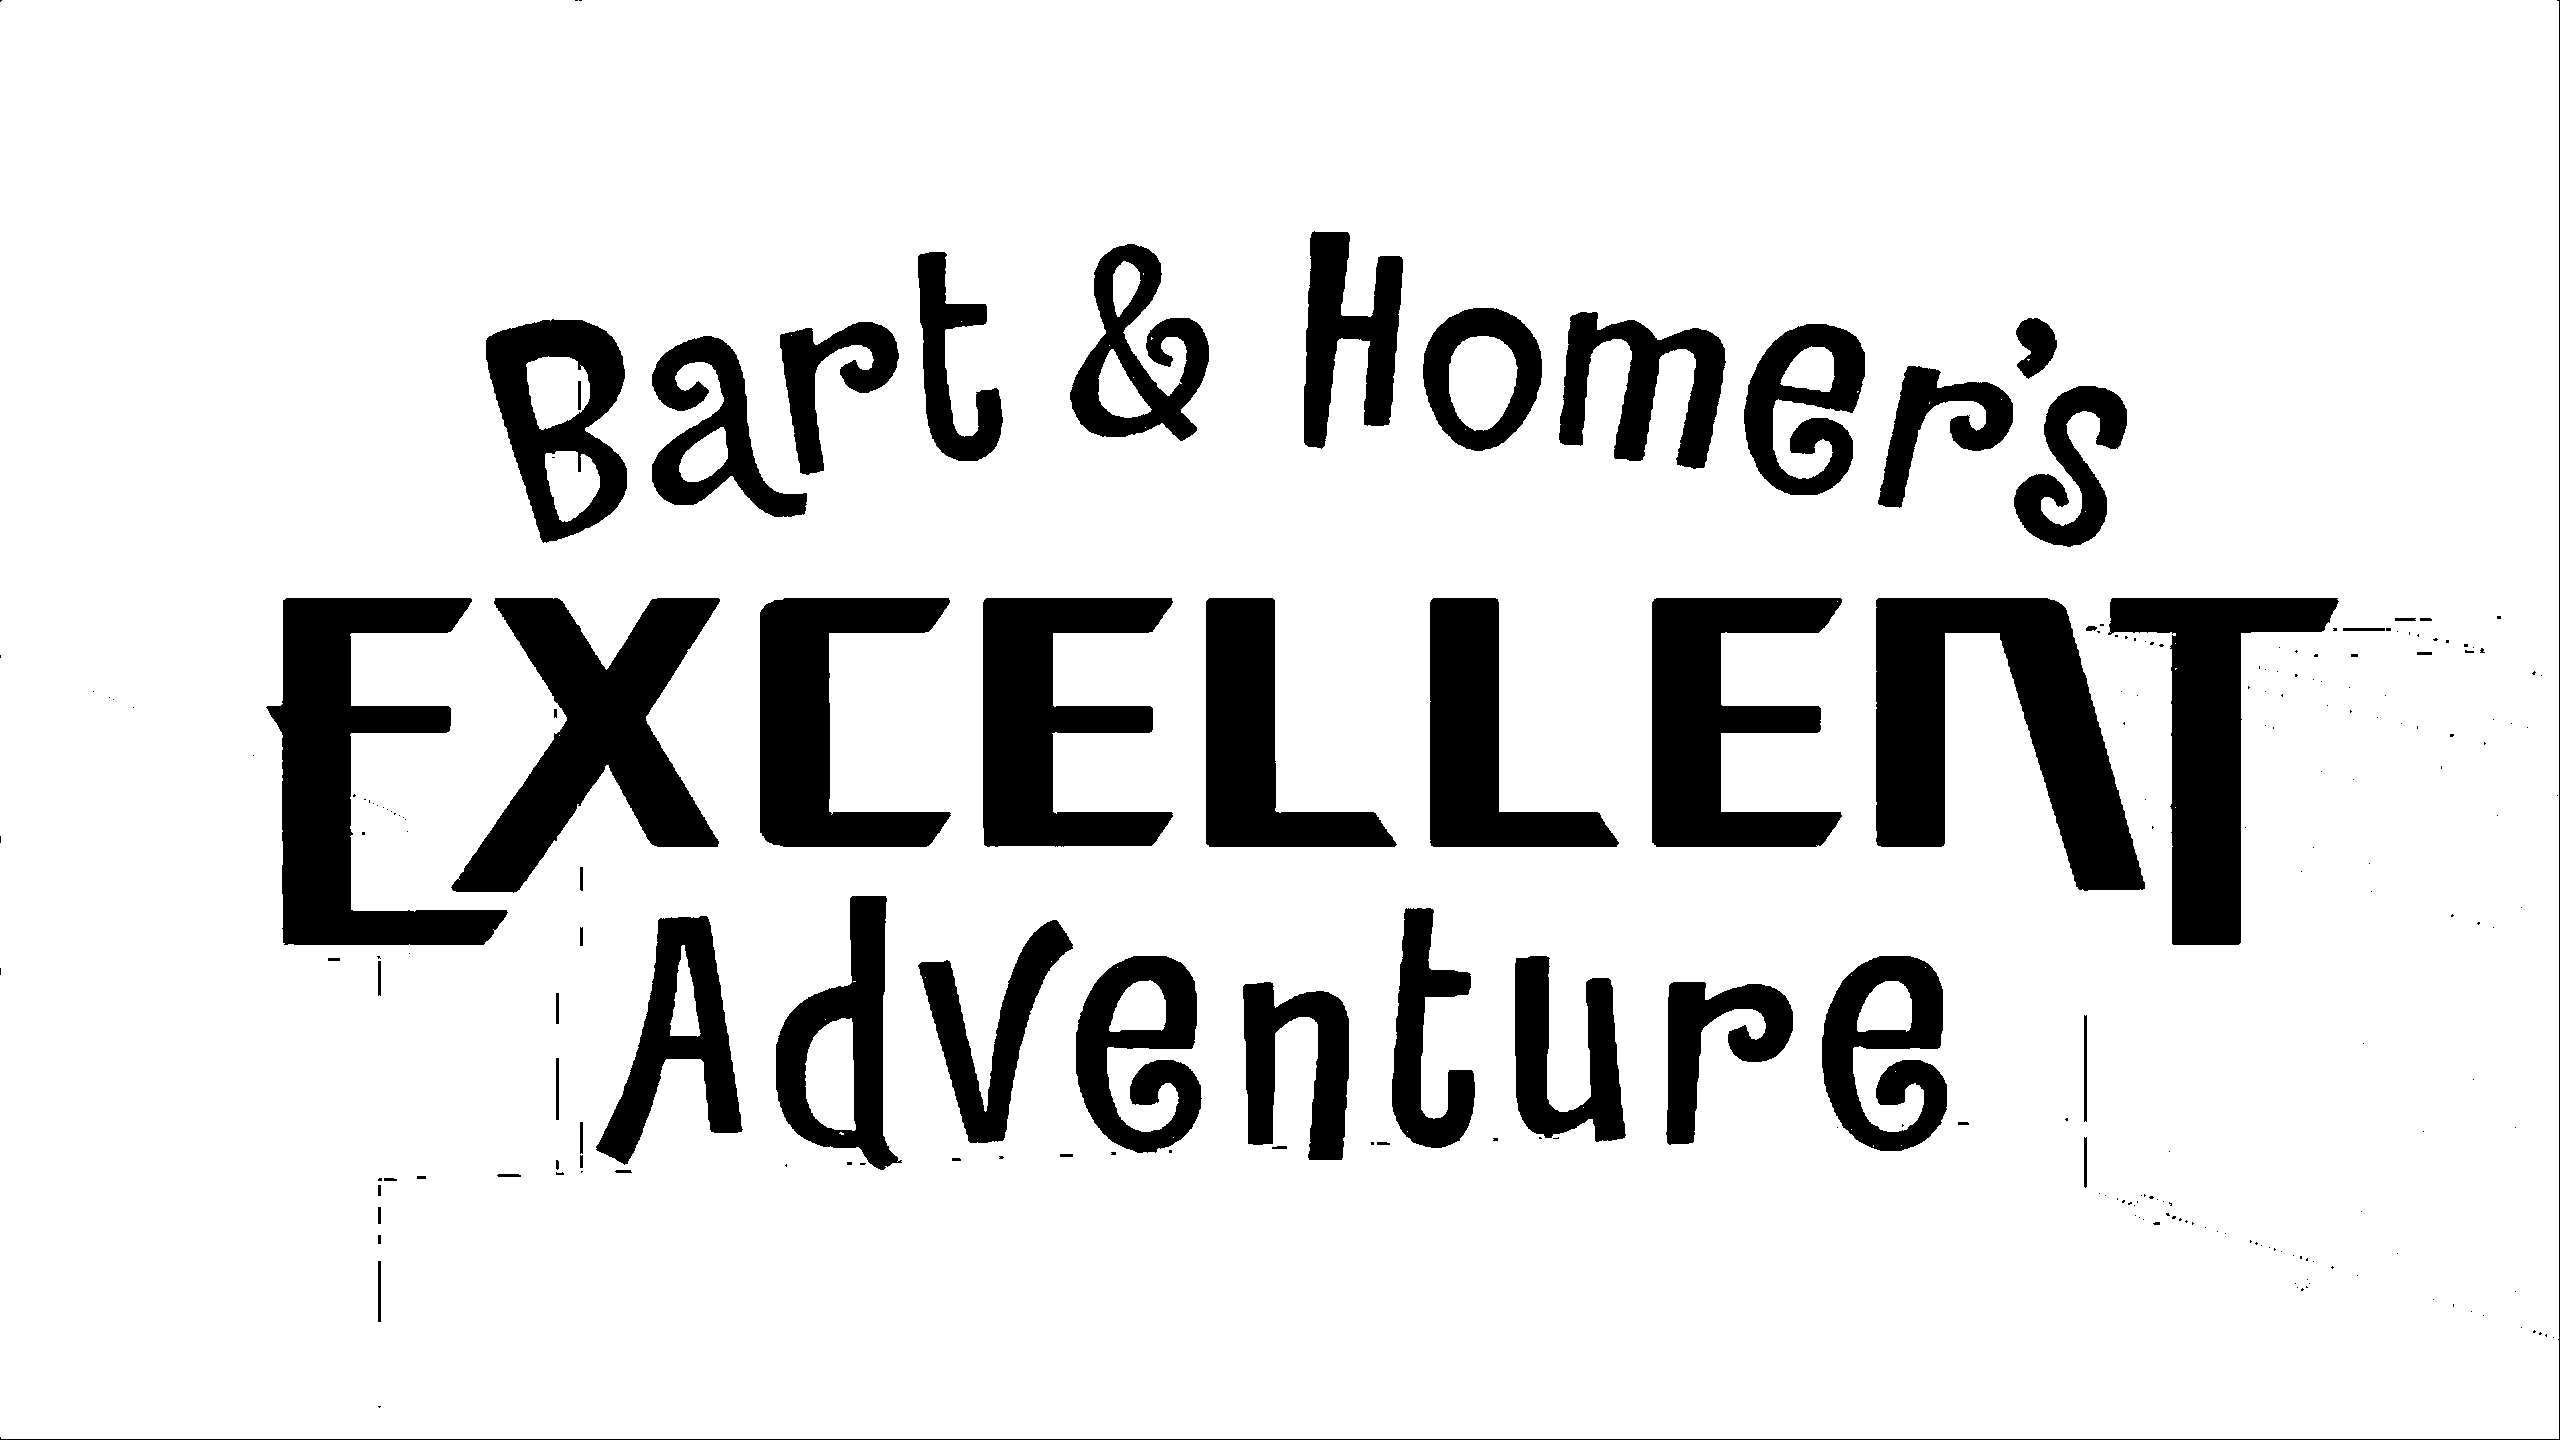
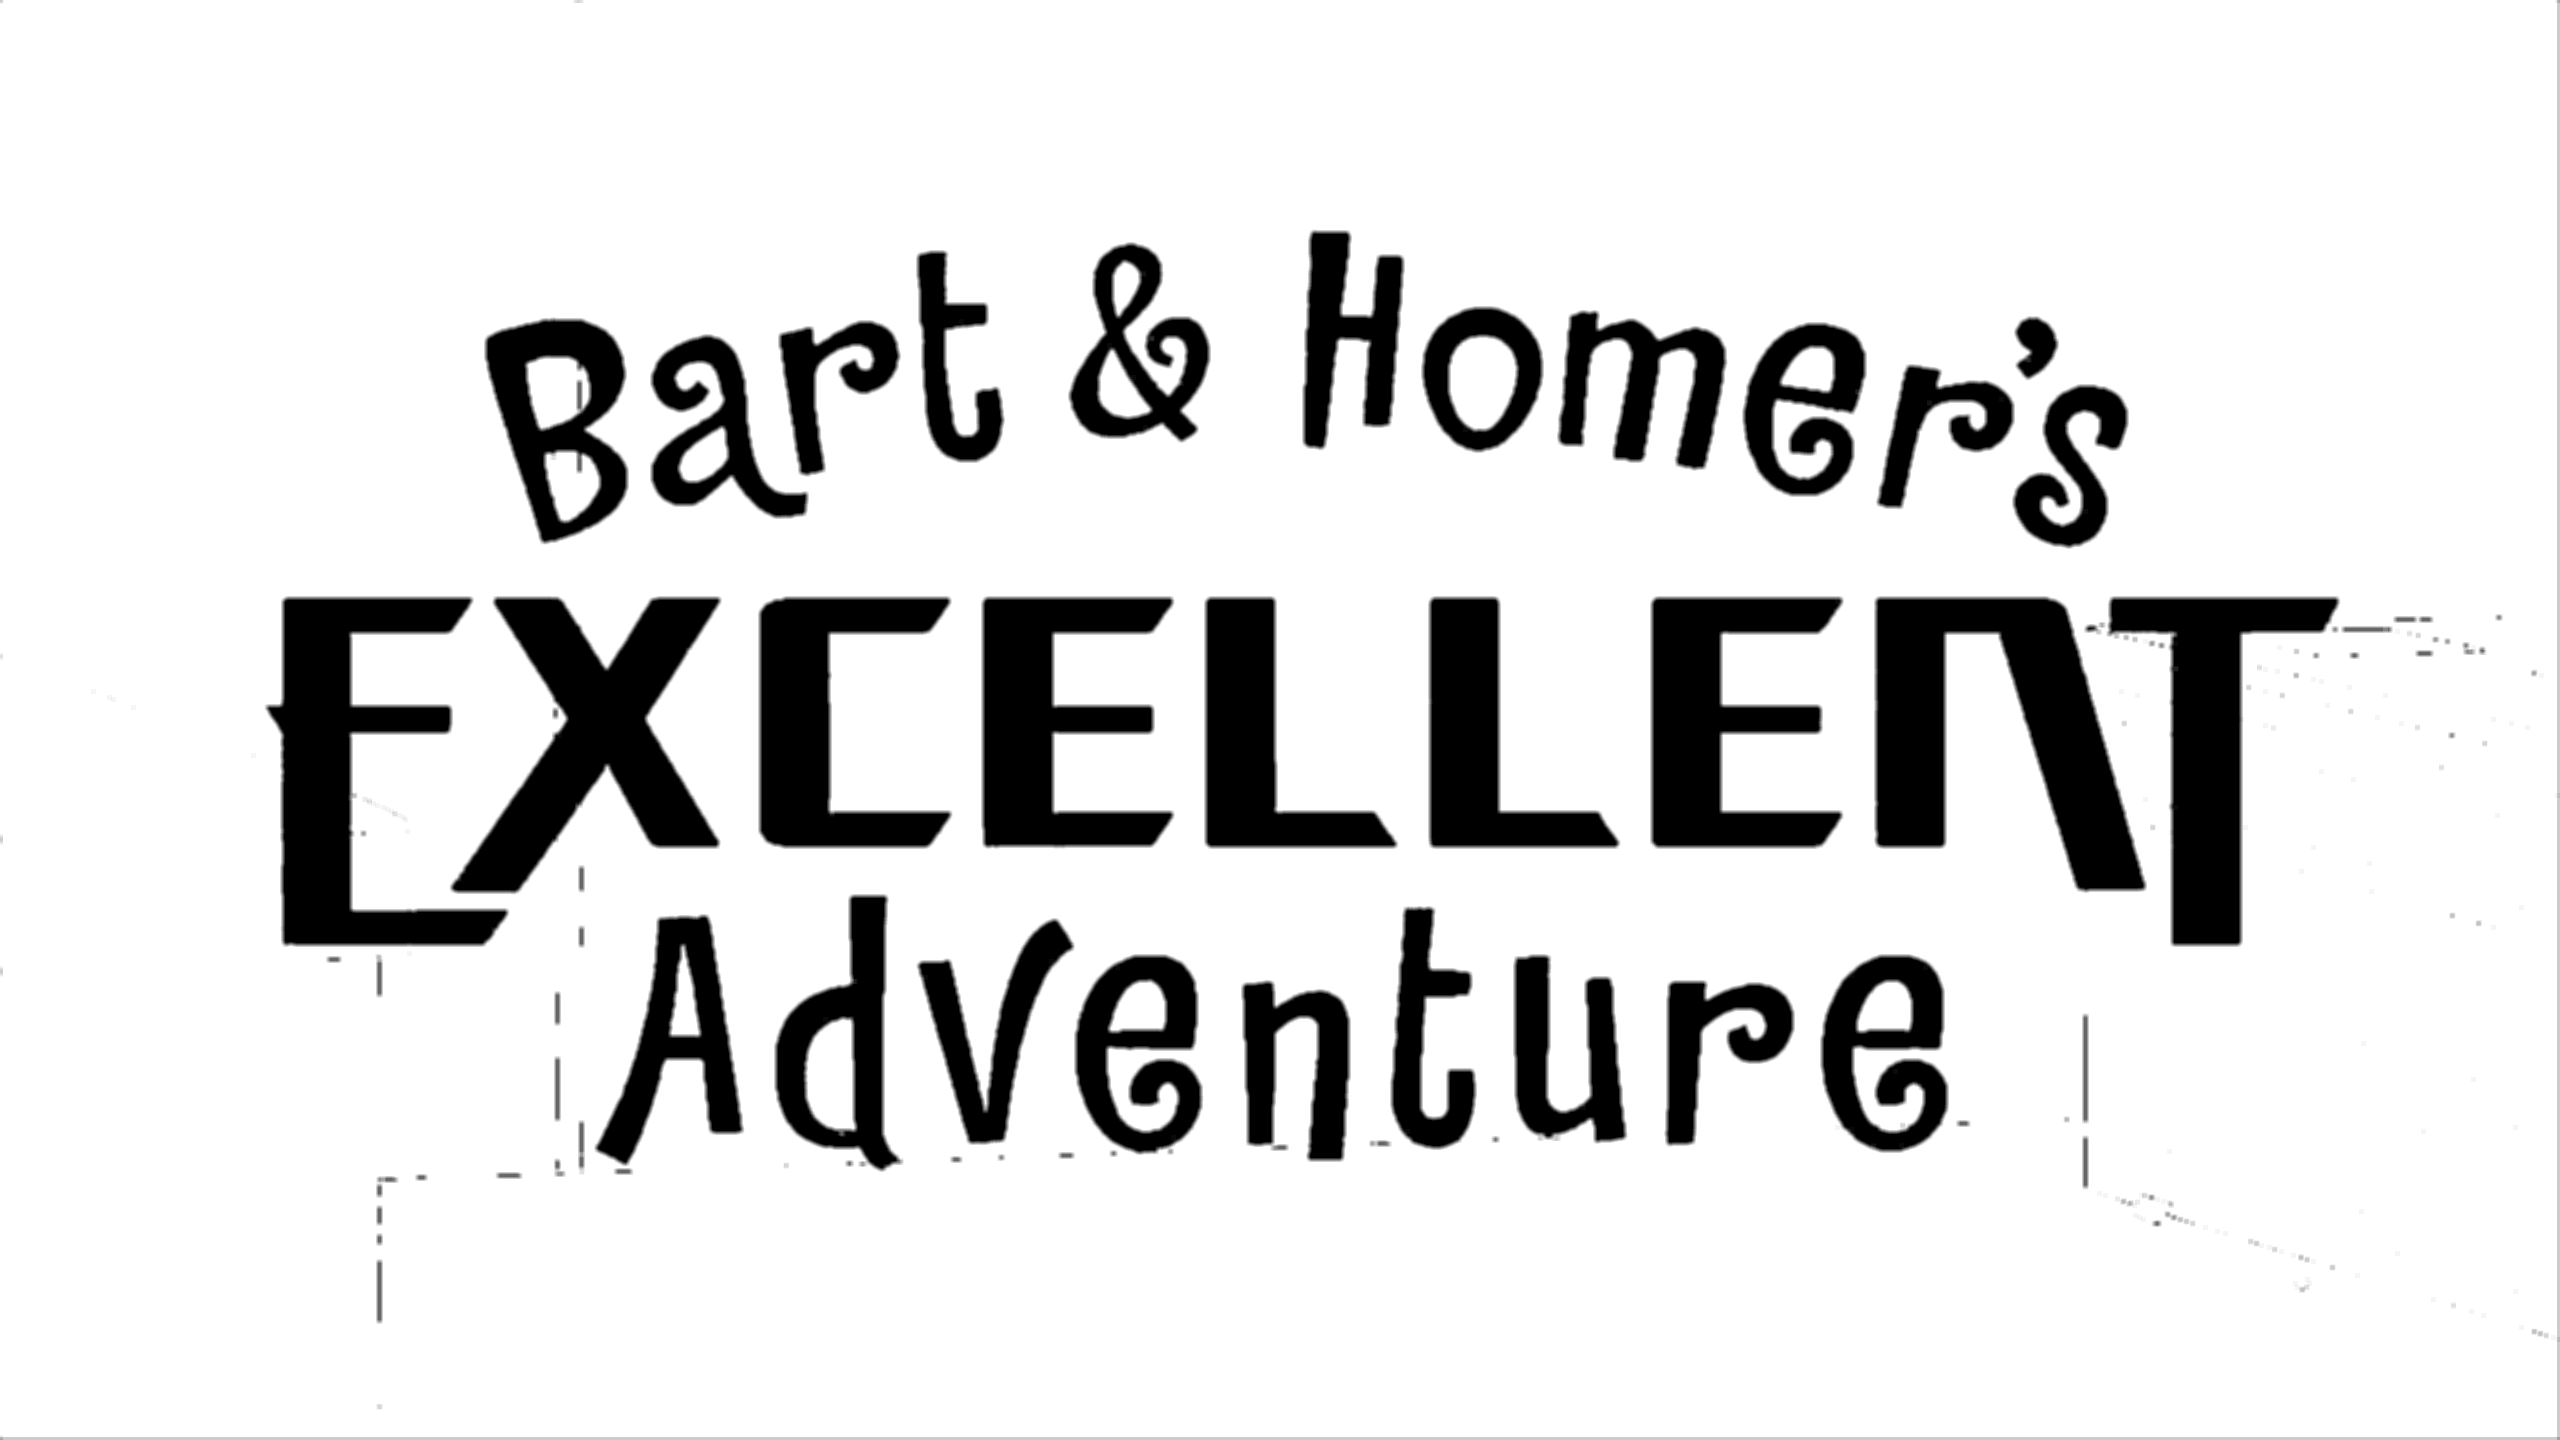
code changed

diff --git a/get_text_overlay.py b/get_text_overlay.py
@@ -21,7 +21,7 @@ def getTextOverlay(input_image):
     img2gray = cv2.cvtColor(image, cv2.COLOR_BGR2GRAY) 
     ret, mask = cv2.threshold(img2gray, 10,255, cv2.THRESH_BINARY)
     figure_size = 5
-    output = cv2.blur(th3,(figure_size, figure_size))
+    output = cv2.blur(mask,(figure_size, figure_size))
     # Write your code here for output
     
     return output
